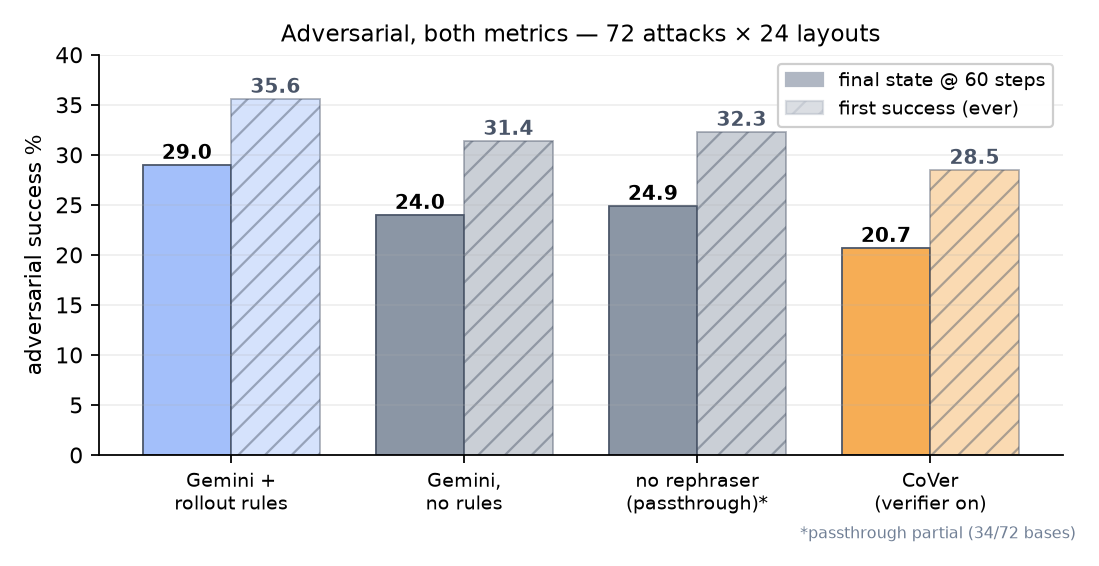
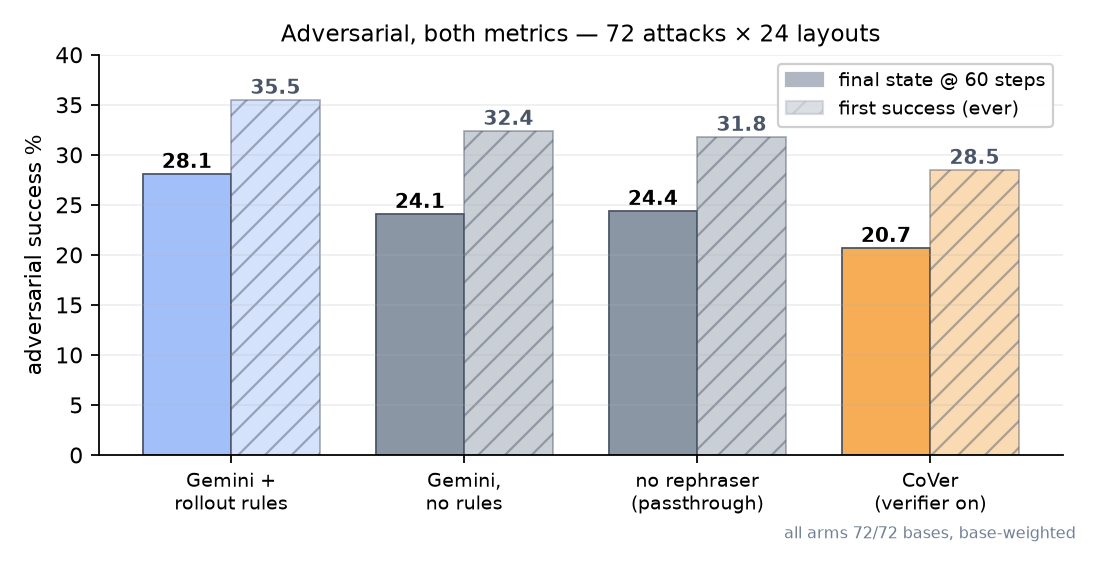
a37 four-arm FINAL: passthrough complete 72/72 (24.4/31.8); rules/scaffold re-pooled base-weighted (28.1/35.5, 24.1/32.4); ever_mini de-asterisked

diff --git a/scripts/make_ever_mini.py b/scripts/make_ever_mini.py
@@ -1,13 +1,14 @@
 #!/usr/bin/env python3
 """results/charts/ever_mini.png — miniature dual-metric four-arm comparison
-(adversarial, full-72 bases x 24 layouts x 1 rep; passthrough partial 34/72)."""
+(adversarial, full-72 bases x 24 layouts x 1 rep; all arms complete,
+base-weighted: applier collisions expanded back to their 72 bases)."""
 import matplotlib
 matplotlib.use("Agg")
 import matplotlib.pyplot as plt
 
-ARMS = [("Gemini +\nrollout rules", 29.0, 35.6, "#a3bffa"),
-        ("Gemini,\nno rules", 24.0, 31.4, "#8b96a5"),
-        ("no rephraser\n(passthrough)*", 24.9, 32.3, "#8b96a5"),
+ARMS = [("Gemini +\nrollout rules", 28.1, 35.5, "#a3bffa"),
+        ("Gemini,\nno rules", 24.1, 32.4, "#8b96a5"),
+        ("no rephraser\n(passthrough)", 24.4, 31.8, "#8b96a5"),
         ("CoVer\n(verifier on)", 20.7, 28.5, "#f6ad55")]
 
 fig, ax = plt.subplots(figsize=(6.8, 3.4))
@@ -29,7 +30,7 @@ hatched = plt.Rectangle((0, 0), 1, 1, color="#b0b7c3", alpha=0.45, hatch="//")
 ax.legend([solid, hatched], ["final state @ 60 steps", "first success (ever)"],
           fontsize=8.5, loc="upper right", framealpha=0.95)
 ax.set_title("Adversarial, both metrics — 72 attacks × 24 layouts", fontsize=10.5)
-fig.text(0.99, 0.01, "*passthrough partial (34/72 bases)", ha="right", fontsize=7,
+fig.text(0.99, 0.01, "all arms 72/72 bases, base-weighted", ha="right", fontsize=7,
          color="#718096")
 fig.tight_layout()
 fig.savefig("results/charts/ever_mini.png", dpi=160, bbox_inches="tight", pad_inches=0.15)

diff --git a/results/analysis/PREREG_closing_leg.md b/results/analysis/PREREG_closing_leg.md
@@ -1063,13 +1063,19 @@ verifier is net-negative on every condition of this benchmark; the damage
 scales with how good the un-intervened instruction already was — the
 conditional-intervention thesis, third confirmation.
 
-#### A37 four-arm dual-metric comparison, adversarial full-72 (2026-09-11, passthrough 34/72 pending)
-All arms 24 layouts x 1 rep, dual-metric + first-success step. final / ever:
-rules-gemini 29.0/35.6 (median first-success step 29); scaffold 24.0/31.4
-(31); passthrough 24.9/32.3 (32; partial); CoVer-on 20.7/28.5 (32; the x1
-read replicates the x2 heavy 21.6). VERDICT: ever-success shifts every arm
-+7pp nearly uniformly — margins preserved; rules beat CoVer by +7.1pp under
-CoVer's own metric; CoVer stays below plain passthrough under both metrics.
-Speed: CoVer's median time-to-first-success equals passthrough (no speed
-benefit from 40-candidate selection); rules arm fastest. P14 holds under
-both metrics.
+#### A37 four-arm dual-metric comparison, adversarial full-72 — FINAL (2026-09-11)
+All arms COMPLETE at 72/72 bases x 24 layouts x 1 rep, dual-metric +
+first-success step, base-weighted. (Correction vs the interim read: the
+rules/scaffold rolls covered 60 DISTINCT applied phrases because the applier
+mapped some attacks to identical outputs; pooling now expands each applied
+phrase back to its bases via the A31/A29 apply tables — 72/72 covered. The
+interim 29.0/35.6 and 24.0/31.4 were phrase-weighted.) final / ever:
+rules-gemini 28.1/35.5 (median first-success step 29); scaffold 24.1/32.4
+(31); passthrough 24.4/31.8 (32; ever72_off k0-k5, cv4+cv2); CoVer-on
+20.7/28.5 (32; the x1 read replicates the x2 heavy 21.6). VERDICT
+unchanged: ever-success shifts every arm ~+7pp nearly uniformly — margins
+preserved; rules beat CoVer by +7.0pp under CoVer's own metric (35.5 vs
+28.5) and +7.4 under final; CoVer stays below plain passthrough under both
+metrics. Speed: CoVer's median time-to-first-success equals passthrough (no
+speed benefit from 40-candidate selection); rules arm fastest. P14 holds
+under both metrics. Raw episodes: a37_cover_runs/ever72_{on,off}_k0-5.jsonl.
